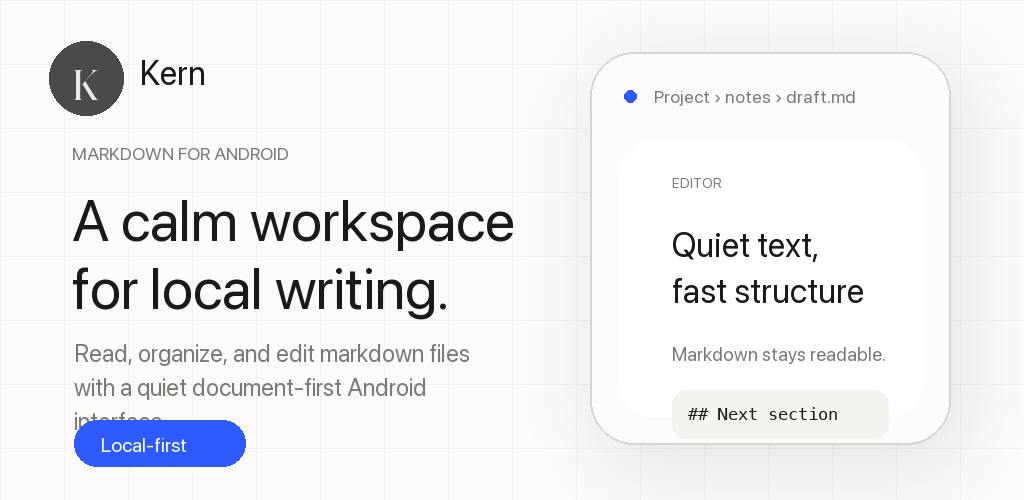
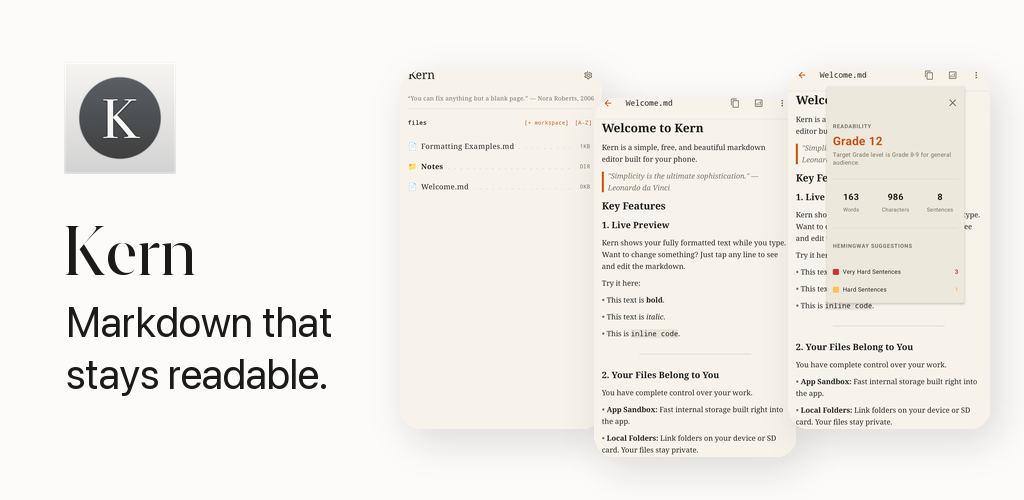
Replace Play graphics with real app captures

diff --git a/tools/generate_store_graphics.py b/tools/generate_store_graphics.py
@@ -1,8 +1,8 @@
 #!/usr/bin/env python3
-"""Generate draft Google Play store graphics for Kern.
+"""Generate Google Play graphics from Kern's real app assets.
 
-Outputs are intentionally static and brand-system based so they can be
-reviewed before final device screenshots are captured.
+Store screenshots and the feature graphic use only captured app UI. The Play
+icon is derived from the launcher artwork shipped in the Android application.
 """
 
 from pathlib import Path
@@ -164,16 +164,26 @@ def make_feature():
     w,h = 1024,500
     img = Image.new("RGBA", (w,h), CANVAS)
     d = ImageDraw.Draw(img)
-    draw_grid(img,w,h)
-    kern_mark(d, 86, 78, 74)
-    d.text((140,52), "Kern", font=BOLD(34), fill=INK)
-    d.text((72,142), "MARKDOWN FOR ANDROID", font=BOLD(18), fill=MUTED, spacing=4)
-    d.text((72,184), "A calm workspace", font=BOLD(58), fill=INK)
-    d.text((72,252), "for local writing.", font=BOLD(58), fill=INK)
-    draw_wrapped(d, "Read, organize, and edit markdown files with a quiet document-first Android interface.", (74,338), SANS(24), MUTED, 420, 34)
-    rounded(d, (74,420,245,466), 23, ACCENT)
-    d.text((101,432), "Local-first", font=BOLD(20), fill=WHITE)
-    editor_card(img, 590, 52, 360, 392, "single")
+    icon = launcher_icon(112)
+    img.alpha_composite(icon, (64, 62))
+    d.text((64, 210), "Kern", font=SERIF_BOLD(68), fill=INK)
+    d.text((66, 296), "Markdown that", font=BOLD(42), fill=INK)
+    d.text((66, 348), "stays readable.", font=BOLD(42), fill=INK)
+
+    captures = [
+        ROOT / "website/screenshots/Screenshot_20260725_075052.png",
+        ROOT / "website/screenshots/Screenshot_20260725_075131.png",
+        ROOT / "website/screenshots/Screenshot_20260725_075141.png",
+    ]
+    for index, source in enumerate(captures):
+        shot = crop_phone_capture(source).resize((202, 359), Image.Resampling.LANCZOS)
+        mask = Image.new("L", shot.size, 0)
+        ImageDraw.Draw(mask).rounded_rectangle((0, 0, shot.width, shot.height), 22, fill=255)
+        shot.putalpha(mask)
+        x = 400 + index * 194
+        y = 70 + (index % 2) * 28
+        add_shadow(img, (x + 8, y + 12, x + shot.width + 8, y + shot.height + 12), 22, 18, 34)
+        img.alpha_composite(shot, (x, y))
     img.convert("RGB").save(OUT / "feature-graphic-1024x500.png", quality=95)
 
 def phone_frame(base, x, y, w, h, title, subtitle, body_lines=None, split=False):
@@ -226,57 +236,76 @@ def make_screenshot(path, eyebrow, headline, body, phone_mode, body_lines=None, 
     img.convert("RGB").save(OUT / path, quality=95)
 
 def make_screenshots():
-    make_screenshot(
-        "phone-01-local-markdown-1080x1920.png",
-        "Local markdown",
-        "Write where\nyour files live.",
-        "Open project folders and keep your markdown workspace grounded in Android file flows.",
-        ("Project notes", "notes › draft.md"),
-        body_lines=[("# Draft", "h"), ("Local files stay local.", "p"), ("- outline\n- research\n- next section", "code")]
-    )
-    make_screenshot(
-        "phone-02-focused-editor-1080x1920.png",
-        "Focused editor",
-        "Quiet text,\nclear structure.",
-        "A restrained writing surface keeps typography and document rhythm in front.",
-        ("Editor", "draft.md"),
-        body_lines=[("Quiet text, fast structure", "h"), ("Kern treats markdown as a working document, not a formatting trick.", "p"), ("## Next section", "code")]
-    )
-    make_screenshot(
-        "phone-03-file-tree-1080x1920.png",
-        "Project view",
-        "Files and editor,\nkept close.",
-        "Move between documents without turning your notes into a heavy cloud workspace.",
-        ("Workspace", "Project › notes"),
-        split=True
-    )
-    make_screenshot(
-        "phone-04-privacy-1080x1920.png",
-        "Privacy posture",
-        "Your writing\nstays yours.",
-        "Kern is local-first. Firebase Analytics is used for launch analytics, not for uploading markdown contents.",
-        ("Privacy", "Local-first workspace"),
-        body_lines=[("Local documents", "h"), ("Markdown content is not uploaded to Kern-operated servers.", "p"), ("analytics ≠ document upload", "code")]
-    )
+    captures = [
+        ("phone-01-local-markdown-1080x1920.png", "Screenshot_20260725_075052.png"),
+        ("phone-02-focused-editor-1080x1920.png", "Screenshot_20260725_075131.png"),
+        ("phone-03-file-tree-1080x1920.png", "Screenshot_20260725_075141.png"),
+        ("phone-04-privacy-1080x1920.png", "Screenshot_20260725_075155.png"),
+    ]
+    source_dir = ROOT / "website" / "screenshots"
+    for destination, source in captures:
+        crop_phone_capture(source_dir / source).convert("RGB").save(OUT / destination, optimize=True)
 
 def make_icon():
-    size=512
-    img=Image.new("RGBA",(size,size),CREAM)
-    d=ImageDraw.Draw(img)
-    kern_mark(d,size//2,size//2,360)
-    img.convert("RGB").save(OUT / "app-icon-512.png", quality=95)
+    launcher_icon(512).save(OUT / "app-icon-512.png", optimize=True)
+
+def launcher_icon(size):
+    """Return the exact launcher artwork shipped with the app, resized."""
+    source = Image.open(ROOT / "app/src/main/res/drawable/ic_launcher_full_fg.png").convert("RGBA")
+    alpha = source.getchannel("A")
+    bounds = alpha.getbbox()
+    if not bounds:
+        raise ValueError("Launcher artwork has no visible pixels")
+    return source.crop(bounds).resize((size, size), Image.Resampling.LANCZOS)
+
+def crop_phone_capture(path):
+    """Remove emulator chrome while preserving only captured in-app pixels."""
+    source = Image.open(path).convert("RGBA")
+    if source.size != (1080, 2400):
+        raise ValueError(f"Unexpected phone capture size for {path}: {source.size}")
+    return source.crop((0, 120, 1080, 2040))
+
+def make_contact_sheet():
+    assets = [
+        OUT / "app-icon-512.png",
+        OUT / "feature-graphic-1024x500.png",
+        OUT / "phone-01-local-markdown-1080x1920.png",
+        OUT / "phone-02-focused-editor-1080x1920.png",
+        OUT / "phone-03-file-tree-1080x1920.png",
+        OUT / "phone-04-privacy-1080x1920.png",
+    ]
+    sheet = Image.new("RGB", (1280, 1180), "#E8E6E1")
+    icon = Image.open(assets[0]).convert("RGB").resize((240, 240), Image.Resampling.LANCZOS)
+    feature = Image.open(assets[1]).convert("RGB").resize((512, 250), Image.Resampling.LANCZOS)
+    sheet.paste(icon, (32, 32))
+    sheet.paste(feature, (304, 32))
+    for index, path in enumerate(assets[2:]):
+        shot = Image.open(path).convert("RGB").resize((270, 480), Image.Resampling.LANCZOS)
+        sheet.paste(shot, (32 + index * 302, 330))
+    sheet.save(OUT / "contact-sheet.png", optimize=True)
 
 def make_social_preview():
     w,h=1200,630
     img=Image.new("RGBA",(w,h),CANVAS)
     d=ImageDraw.Draw(img)
-    draw_grid(img,w,h,70)
-    kern_mark(d, 105, 105, 88)
-    d.text((168,70), "Kern", font=BOLD(48), fill=INK)
-    d.text((90,198), "A calm markdown workspace", font=BOLD(72), fill=INK)
-    d.text((90,286), "for Android.", font=BOLD(72), fill=INK)
-    draw_wrapped(d, "Local files, readable typography, and a quiet editor for focused writing.", (94,410), SANS(32), MUTED, 710, 44)
-    editor_card(img, 820, 118, 300, 360, "single")
+    img.alpha_composite(launcher_icon(116), (72, 68))
+    d.text((72, 234), "Kern", font=SERIF_BOLD(76), fill=INK)
+    d.text((74, 334), "Markdown that", font=BOLD(48), fill=INK)
+    d.text((74, 392), "stays readable.", font=BOLD(48), fill=INK)
+    captures = [
+        ROOT / "website/screenshots/Screenshot_20260725_075052.png",
+        ROOT / "website/screenshots/Screenshot_20260725_075131.png",
+        ROOT / "website/screenshots/Screenshot_20260725_075141.png",
+    ]
+    for index, source in enumerate(captures):
+        shot = crop_phone_capture(source).resize((236, 420), Image.Resampling.LANCZOS)
+        mask = Image.new("L", shot.size, 0)
+        ImageDraw.Draw(mask).rounded_rectangle((0, 0, shot.width, shot.height), 24, fill=255)
+        shot.putalpha(mask)
+        x = 480 + index * 220
+        y = 74 + (index % 2) * 34
+        add_shadow(img, (x + 8, y + 12, x + shot.width + 8, y + shot.height + 12), 24, 20, 34)
+        img.alpha_composite(shot, (x, y))
     img.convert("RGB").save(OUT / "social-preview-1200x630.png", quality=95)
 
 if __name__ == "__main__":
@@ -284,6 +313,7 @@ if __name__ == "__main__":
     make_icon()
     make_social_preview()
     make_screenshots()
+    make_contact_sheet()
     print(f"Generated assets in {OUT}")
     for p in sorted(OUT.glob("*.png")):
         im=Image.open(p)

diff --git a/store-assets/google-play/README.md b/store-assets/google-play/README.md
@@ -1,6 +1,6 @@
 # Google Play store graphics — Kern
 
-Draft graphics generated for launch readiness.
+Store graphics built from the launcher artwork and real app captures.
 
 ## Generated assets
 
@@ -8,10 +8,10 @@ Draft graphics generated for launch readiness.
 |---|---:|---|
 | `app-icon-512.png` | 512×512 | Google Play app icon upload candidate |
 | `feature-graphic-1024x500.png` | 1024×500 | Google Play feature graphic |
-| `phone-01-local-markdown-1080x1920.png` | 1080×1920 | Phone screenshot candidate |
-| `phone-02-focused-editor-1080x1920.png` | 1080×1920 | Phone screenshot candidate |
-| `phone-03-file-tree-1080x1920.png` | 1080×1920 | Phone screenshot candidate |
-| `phone-04-privacy-1080x1920.png` | 1080×1920 | Phone screenshot candidate |
+| `phone-01-local-markdown-1080x1920.png` | 1080×1920 | Real files screen capture |
+| `phone-02-focused-editor-1080x1920.png` | 1080×1920 | Real editor screen capture |
+| `phone-03-file-tree-1080x1920.png` | 1080×1920 | Real readability screen capture |
+| `phone-04-privacy-1080x1920.png` | 1080×1920 | Real appearance settings capture |
 | `social-preview-1200x630.png` | 1200×630 | Website/social preview image |
 
 ## Source
@@ -36,6 +36,12 @@ The graphics follow the Kern visual system from [`contributor-guides/design-guid
 - utility blue: `#2E5BFF`
 - restrained typography-first composition
 
-## Review notes
+## Capture notes
 
-These are launch-readiness draft graphics. Before final public Play submission, replace or supplement them with real screenshots from a release-equivalent build if Google Play review requires exact in-app screenshots rather than designed store panels.
+The phone assets are cropped from the real 1080×2400 device captures in
+`website/screenshots/`. Cropping removes emulator status/navigation chrome and
+produces the Play-recommended 1080×1920 portrait ratio without altering app UI.
+
+Tablet screenshots are not synthesized from phone captures. Capture real
+tablet UI from a release-equivalent build before adding 7-inch or 10-inch
+listing assets.
